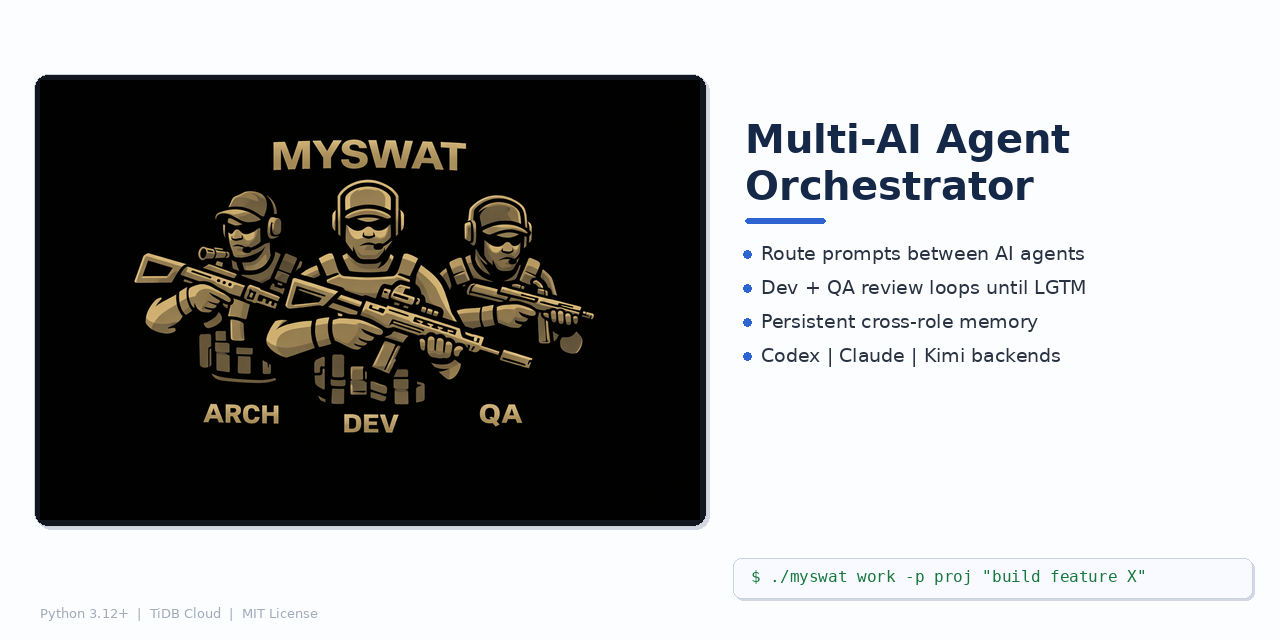
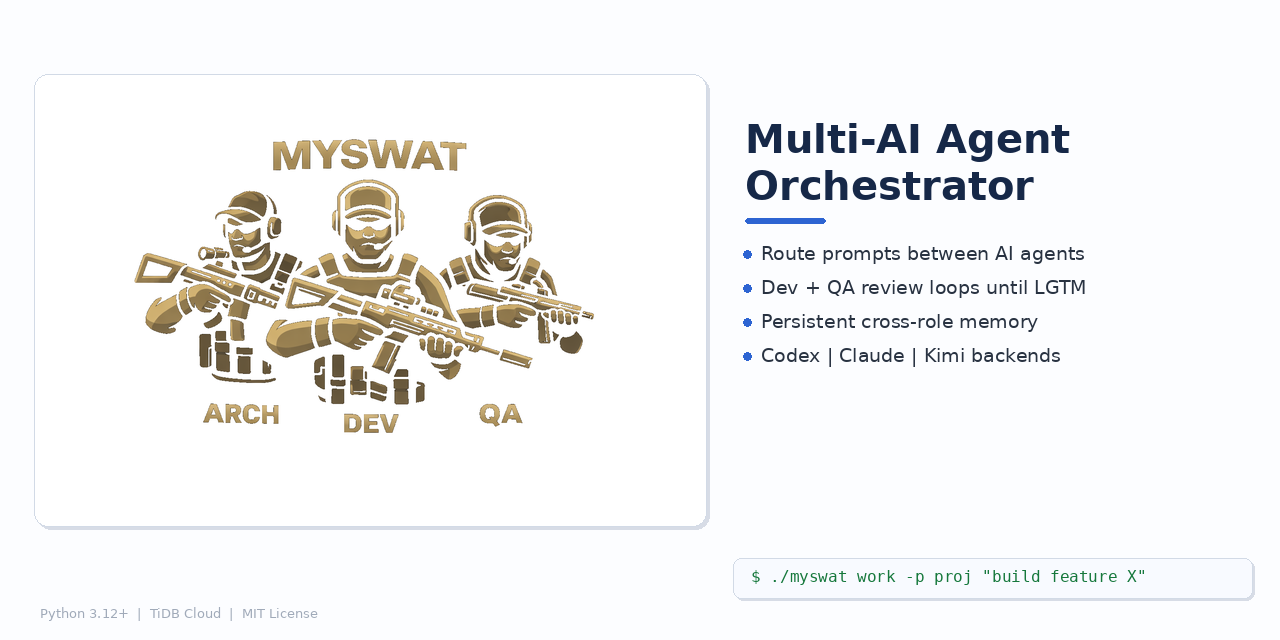
Switch all assets to light theme with crisp SVG workflow diagram
- myswat.png: replace black background with white
- workflow: rewrite as SVG (was pixelated PNG) — card-style boxes with
  colored accent bars, drop shadows, proper arrow markers
- social-preview.png: light background, light-framed hero image
- All "myswat" boxes now light-themed (no more dark fills)

diff --git a/README.md b/README.md
@@ -21,7 +21,7 @@
 MySwat is a **conversation orchestrator** — it automates the copy-paste routing between AI agents (developer and QA review loops) that humans currently do manually. MySwat routes outputs, captures context, and loops until LGTM. It does **not** run builds or tests itself — that's the agents' job.
 
 <p align="center">
-  <img src="assets/workflow.png" alt="myswat workflow — design, review, plan, dev, QA test, report" width="800"/>
+  <img src="assets/workflow.svg" alt="myswat workflow — design, review, plan, dev, QA test, report" width="800"/>
 </p>
 
 ## Key Features
